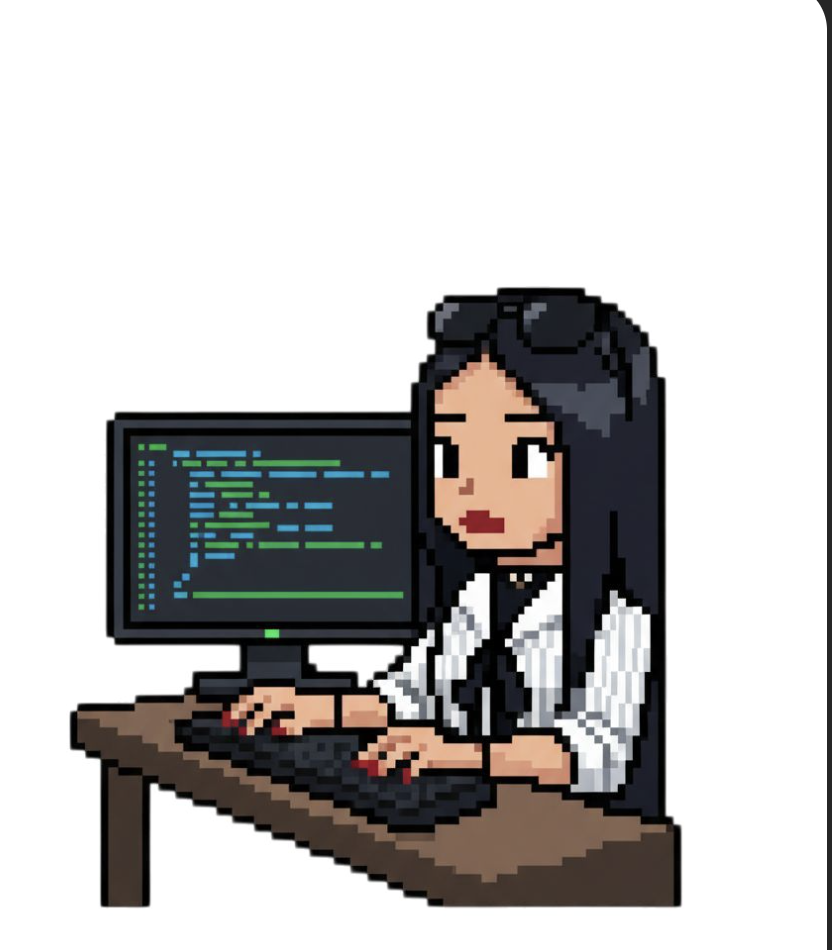
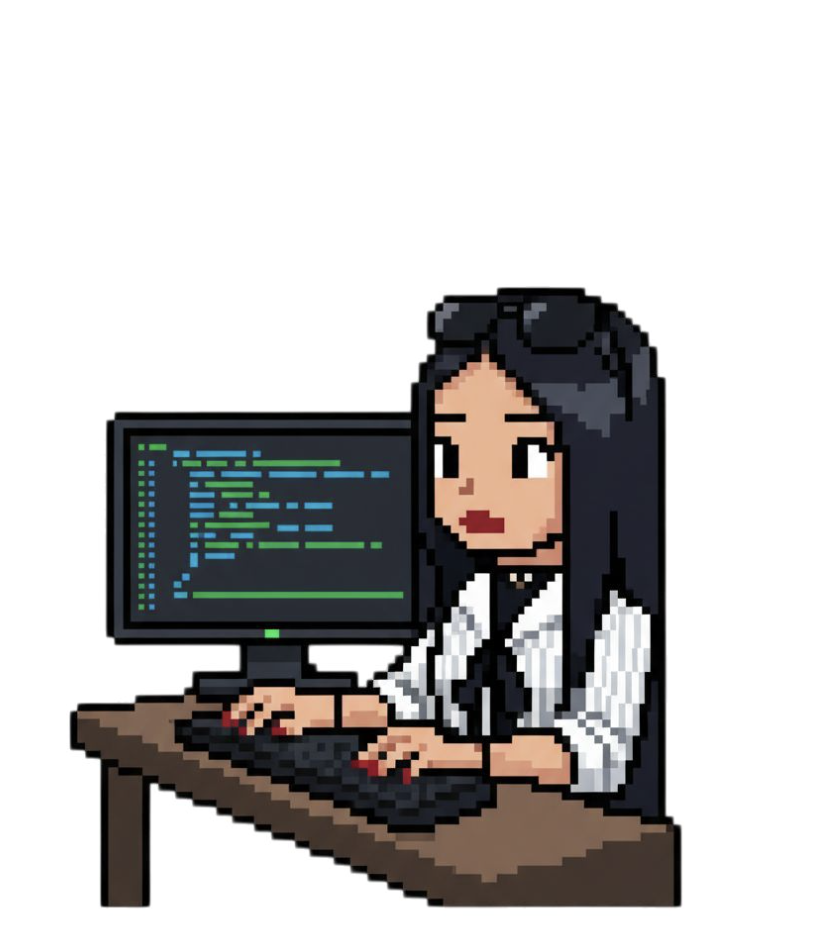
add CSS styling and image

Changed region(s): [[0.9688, 0.0, 1.0, 1.0]]

diff --git a/styles.css b/styles.css
@@ -24,5 +24,8 @@ table {
 
  }
  .highlight {
-    color: red;
+    color: rgb(243, 85, 17);
+ }
+ body {
+    background-color: rgb(190, 238, 243);
  }
